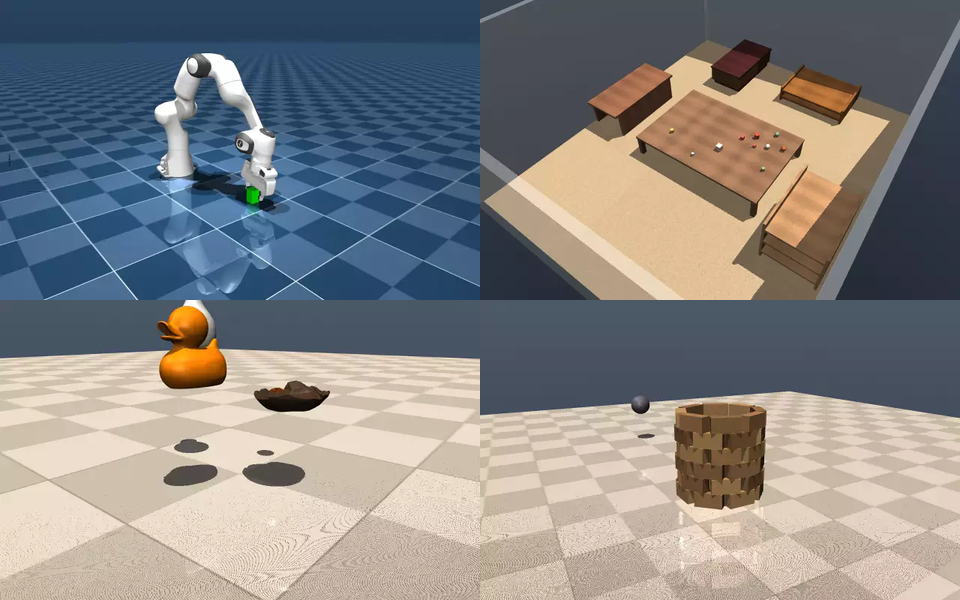
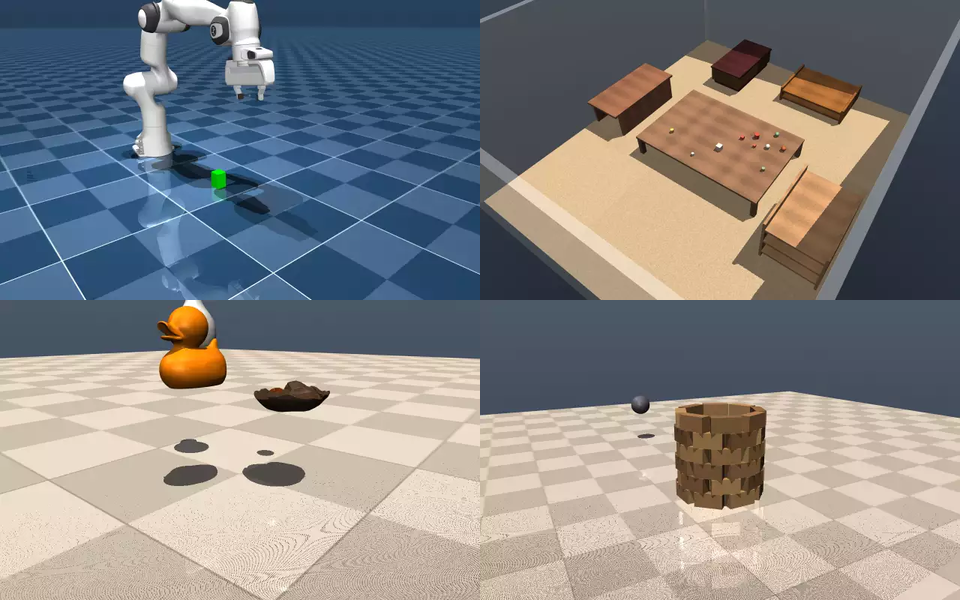
fix(gallery): address demo quality notes — drawer grip, push clipping, dedup
Three reviewer notes on the manipulation clips, all fixed:
- open drawer looked like it wasn't holding the handle: the upper drawer's
  handle sits high on a tall front, so a wide side view read as "resting on
  the top edge". The grasp was correct (pulls the full 0.265 m); reframed to
  a tight 3/4 view that clearly shows the fingers on the handle and the
  drawer sliding out. (Also confirmed the lower drawer can't be grasped
  top-down — the chest body blocks it — so the upper drawer is the right one.)
- push looked interpenetrating: the top-down gripper parked on top of the
  cube. The gripper now trails ~7 cm behind so the cube stays clearly ahead,
  and contacts the cube's back face at mid-height.
- grasp & lift duplicated pick & place (both just hold a green cube): removed
  the grasp cell from the gallery (pick & place is a superset). hero collage
  now uses pick & place. franka_cube_grasp.py stays as a keyframe example.

Suite: 79 passed.

Changed region(s): [[0.0, 0.0, 0.5, 0.51]]

diff --git a/examples/franka_push.py b/examples/franka_push.py
@@ -41,13 +41,16 @@ def main():
 
     cube_start = np.array([0.5, 0.0, 0.03])
     goal_x = 0.66
-    push_z = 0.05                         # fingertips at cube height
-    behind = cube_start[0] - 0.09
+    push_z = 0.065                        # gripper contacts the cube's back face
+    behind = cube_start[0] - 0.10
+    # the gripper trails ~7 cm behind the cube so the cube stays clearly AHEAD
+    # of the wrist (driving to the goal itself parks the wrist on top of it)
+    gripper_stop = goal_x - 0.07
     waypoints = [
-        ([behind, 0.0, push_z + 0.15], 60),   # approach above, behind the cube
-        ([behind, 0.0, push_z], 50),           # descend behind it
-        ([goal_x, 0.0, push_z], 120),          # sweep forward, pushing the cube
-        ([goal_x, 0.0, push_z + 0.15], 50),    # retract up
+        ([behind, 0.0, push_z + 0.16], 60),        # approach above, behind the cube
+        ([behind, 0.0, push_z], 55),               # descend behind it
+        ([gripper_stop, 0.0, push_z], 140),        # sweep forward, pushing the cube
+        ([gripper_stop, 0.0, push_z + 0.16], 50),  # retract up
     ]
 
     qpos, ctrl = scene.qpos(), scene.state("ctrl")

diff --git a/examples/franka_open_drawer_arm.py b/examples/franka_open_drawer_arm.py
@@ -29,7 +29,9 @@ def main():
                            lpw.Config(n_worlds=4, njmax=2048))
     mjm = scene.mjm
     sid = mujoco.mj_name2id(mjm, mujoco.mjtObj.mjOBJ_SITE, "gripper")
-    hgid = mujoco.mj_name2id(mjm, mujoco.mjtObj.mjOBJ_GEOM, "f0w1h")   # upper handle
+    # upper drawer: a top-down grasp has clearance above it (the lower drawer's
+    # handle is blocked from above by the chest body)
+    hgid = mujoco.mj_name2id(mjm, mujoco.mjtObj.mjOBJ_GEOM, "f0w1h")
     jid = mujoco.mj_name2id(mjm, mujoco.mjtObj.mjOBJ_JOINT, "f0_drawer1")
     dr_adr = int(mjm.jnt_qposadr[jid])
     seed = mjm.key_qpos[mujoco.mj_name2id(mjm, mujoco.mjtObj.mjOBJ_KEY, "home")][:7].copy()
@@ -82,8 +84,8 @@ def main():
     if args.record:
         from _record import record_webp
         record_webp(build_articulated_scene("open_drawer"), np.asarray(traj), "franka_open_drawer",
-                    cam={"lookat": (0.4, 0.0, 0.42), "distance": 2.1,
-                         "azimuth": 90, "elevation": -8}, every=4, quality=52)
+                    cam={"lookat": (0.35, 0.0, 0.47), "distance": 1.25,
+                         "azimuth": 108, "elevation": -10}, every=4, quality=54)
 
 
 if __name__ == "__main__":

diff --git a/scripts/make_hero.py b/scripts/make_hero.py
@@ -13,7 +13,7 @@ from PIL import Image, ImageSequence
 MEDIA = os.path.join(os.path.dirname(os.path.dirname(os.path.abspath(__file__))),
                      "docs", "media")
 # a spread across the pillars: manipulation, worlds, real assets, dynamics
-TILES = ["franka_cube_grasp", "procedural_room", "real_assets", "collision_tower"]
+TILES = ["franka_pick_place", "procedural_room", "real_assets", "collision_tower"]
 TW, TH = 480, 300
 
 

diff --git a/README.md b/README.md
@@ -60,22 +60,22 @@ actual simulation from this repo on a single consumer GPU (RTX 5070 Ti), and
 every label links to the code that produced it. Nothing staged, nothing
 rendered offline: contact forces match the reference engine to **0.00%**,
 the manipulation scene steps at **8M+ physics steps/s** across 8192 worlds,
-the Franka **grasps, places, pushes, and stacks** via IK-scripted contact
-(no learned policies), and a **12-task benchmark suite** auto-verifies
+the Franka **picks, places, pushes, stacks, and opens a drawer** via
+IK-scripted contact (no learned policies), and a **12-task benchmark suite** auto-verifies
 behavior with physically checkable predicates — all enforced by committed tests.
 
 | | | |
 |---|---|---|
 | [Manipulation: pick & place](examples/franka_pick_place.py) | [Manipulation: stack](examples/franka_stack.py) | [Manipulation: push](examples/franka_push.py) |
 | <img src="docs/media/franka_pick_place.webp" width="240"> | <img src="docs/media/franka_stack.webp" width="240"> | <img src="docs/media/franka_push.webp" width="240"> |
-| [Manipulation: grasp & lift](examples/franka_cube_grasp.py) | [Manipulation: open drawer](examples/franka_open_drawer_arm.py) | [Rigid: collision tower](examples/collision_tower.py) |
-| <img src="docs/media/franka_cube_grasp.webp" width="240"> | <img src="docs/media/franka_open_drawer.webp" width="240"> | <img src="docs/media/collision_tower.webp" width="240"> |
-| [Rigid: contype masks](examples/contype_demo.py) | [Worlds: procedural room](examples/procedural_room.py) | [Worlds: articulated furniture](examples/articulated_room.py) |
-| <img src="docs/media/contype_masks.webp" width="240"> | <img src="docs/media/procedural_room.webp" width="240"> | <img src="docs/media/articulated_room.webp" width="240"> |
-| [Assets: real CC0 meshes](examples/real_assets.py) | [Assets: GLB scene import](examples/glb_import.py) | [Assets: convex decomposition](latentphysics/assets/__init__.py) |
-| <img src="docs/media/real_assets.webp" width="240"> | <img src="docs/media/glb_import.webp" width="240"> | <img src="docs/media/convex_decomposition.webp" width="240"> |
-| [Perception: depth + segmentation](latentphysics/perception/camera.py) | [Perception: lidar point cloud](latentphysics/perception/lidar.py) | [Physics: 8192 parallel worlds](tests/test_throughput_gpu.py) |
-| <img src="docs/media/depth_segmentation.webp" width="240"> | <img src="docs/media/lidar_pointcloud.webp" width="240"> | <img src="docs/media/hero.png" width="240"> |
+| [Manipulation: open drawer](examples/franka_open_drawer_arm.py) | [Rigid: collision tower](examples/collision_tower.py) | [Rigid: contype masks](examples/contype_demo.py) |
+| <img src="docs/media/franka_open_drawer.webp" width="240"> | <img src="docs/media/collision_tower.webp" width="240"> | <img src="docs/media/contype_masks.webp" width="240"> |
+| [Worlds: procedural room](examples/procedural_room.py) | [Worlds: articulated furniture](examples/articulated_room.py) | [Assets: real CC0 meshes](examples/real_assets.py) |
+| <img src="docs/media/procedural_room.webp" width="240"> | <img src="docs/media/articulated_room.webp" width="240"> | <img src="docs/media/real_assets.webp" width="240"> |
+| [Assets: GLB scene import](examples/glb_import.py) | [Assets: convex decomposition](latentphysics/assets/__init__.py) | [Perception: depth + segmentation](latentphysics/perception/camera.py) |
+| <img src="docs/media/glb_import.webp" width="240"> | <img src="docs/media/convex_decomposition.webp" width="240"> | <img src="docs/media/depth_segmentation.webp" width="240"> |
+| [Perception: lidar point cloud](latentphysics/perception/lidar.py) | [Physics: 8192 parallel worlds](tests/test_throughput_gpu.py) | |
+| <img src="docs/media/lidar_pointcloud.webp" width="240"> | <img src="docs/media/hero.png" width="240"> | |
 
 And the whole thing speaks PyTorch:
 